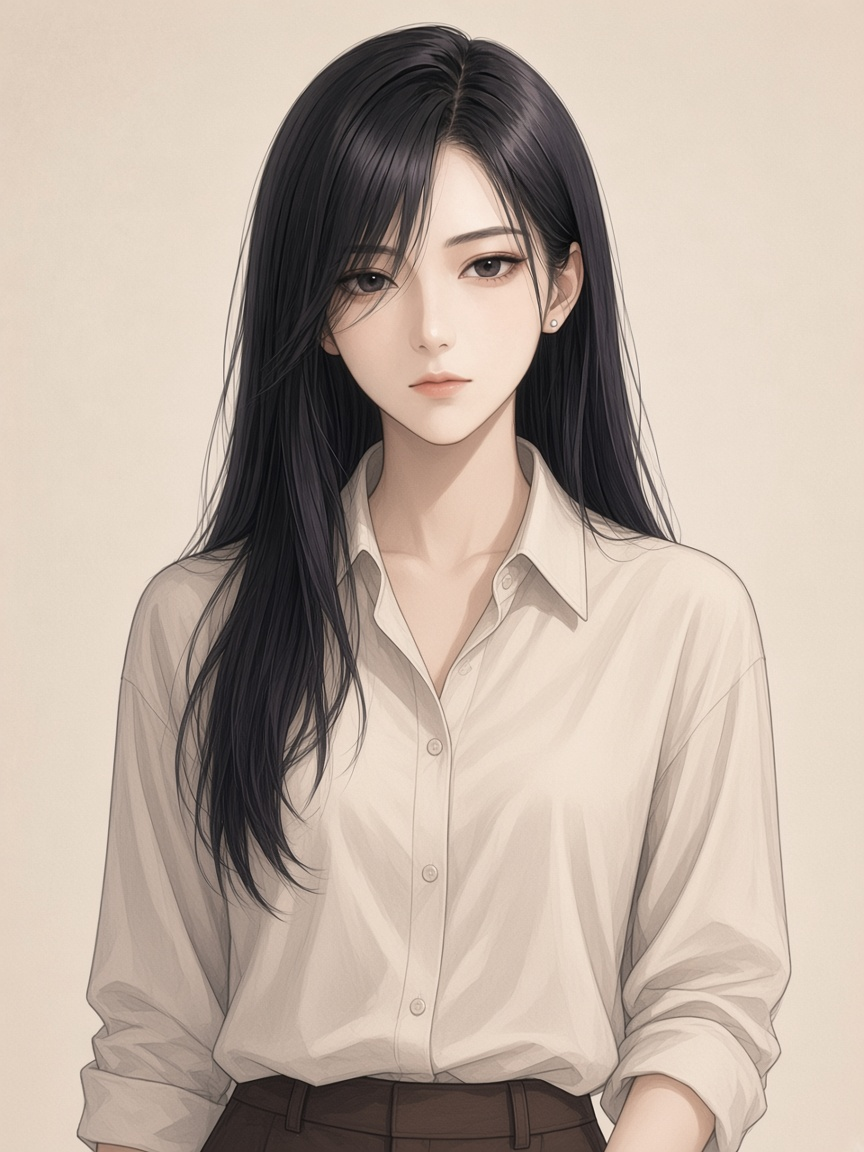
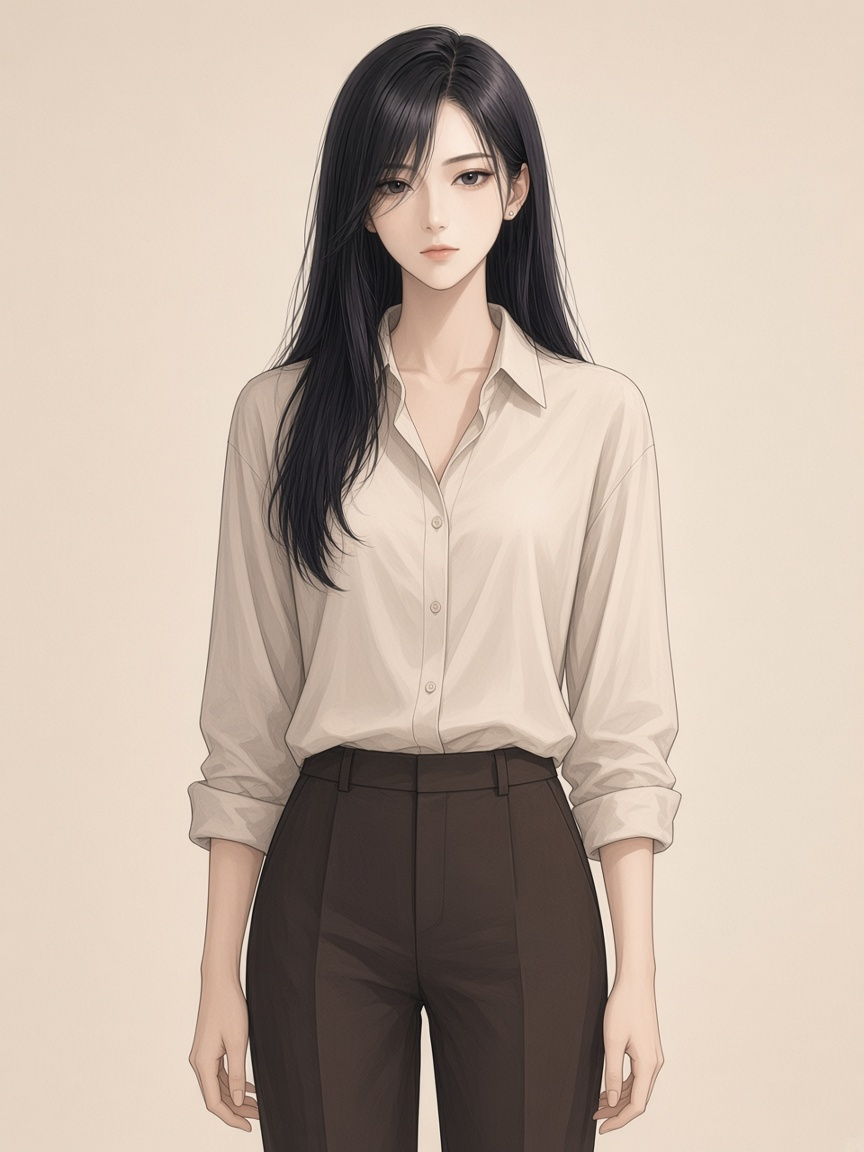
Redraw Shen Wan taller and slimmer across all thirty outfits.

diff --git a/portrait.js b/portrait.js
@@ -1,4 +1,4 @@
-/* 原创角色沈晚。同一张脸，14 套衣服按日期轮换。 */
+/* 原创角色沈晚。同一张脸，30 套衣服按日期轮换。身材高瘦、腰细、腿长。 */
 const OUTFITS = [
   { name: "深灰高领，黑风衣", file: "outfit-01.png" },
   { name: "白衬衫，墨蓝背心裙", file: "outfit-02.png" },
